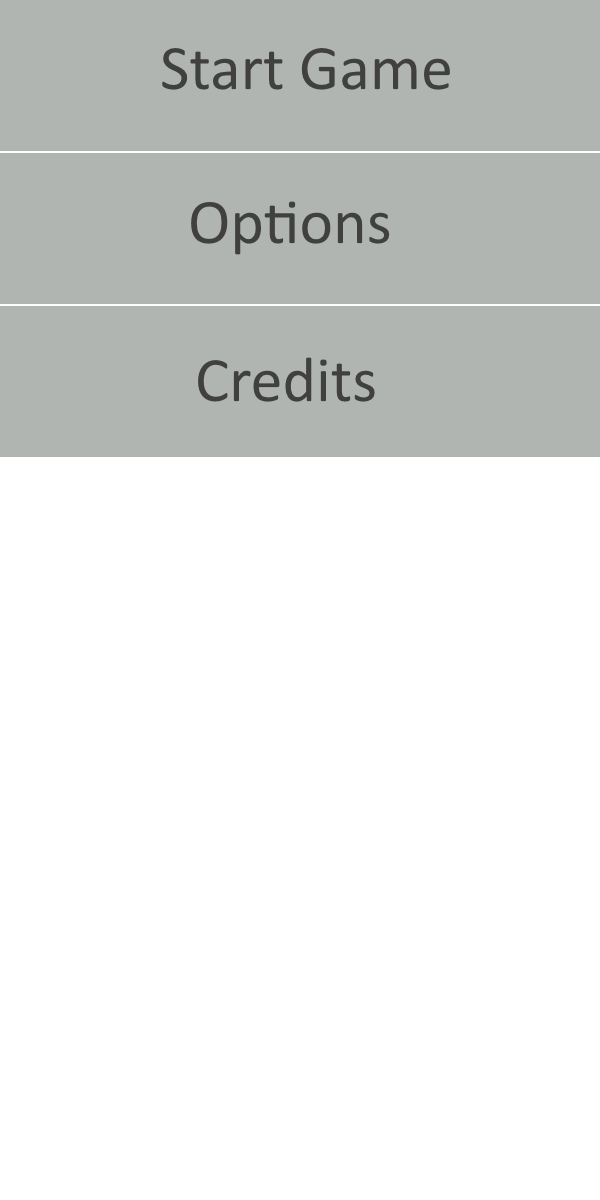
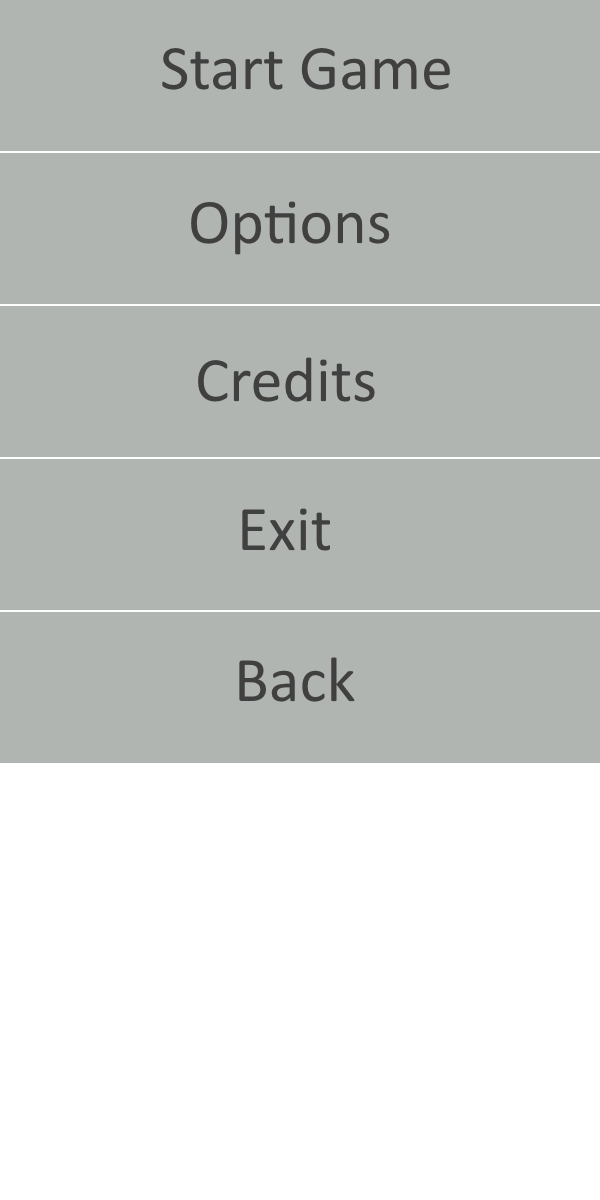
Added some menu stuff

Changed region(s): [[0.0, 0.37, 1.0, 0.6475]]

diff --git a/Assets/Code/menuScript.cs b/Assets/Code/menuScript.cs
@@ -1,0 +1,52 @@
+using UnityEngine;
+using System.Collections;
+
+public class menuScript : MonoBehaviour {
+
+	public string itemName;
+
+	// Use this for initialization
+	void Start () 
+	{
+
+	}
+	
+	// Update is called once per frame
+	void Update () 
+	{
+
+	}
+
+	void OnMouseDown()
+	{
+		if ( itemName == "Start Game" )
+		{
+			Debug.Log("Start Game");
+			Application.LoadLevel("dansTest");
+		}
+		
+		else if ( itemName == "Options" )
+		{
+			Debug.Log("Options Menu");
+			Application.LoadLevel("OptionsMenu");
+		}
+		
+		else if ( itemName == "Credits" )
+		{
+			Debug.Log("Credits");
+			Application.LoadLevel("CreditsMenu");
+		}	
+		
+		else if ( itemName == "Exit" )
+		{
+			Debug.Log("Exit");
+			Application.Quit();
+		}
+		
+		else if ( itemName == "Back" )
+		{
+			Debug.Log("Back");
+			Application.LoadLevel("MainMenu");
+		}
+	}
+}

diff --git a/Assets/Code/menuItemOutline.cs b/Assets/Code/menuItemOutline.cs
@@ -1,0 +1,25 @@
+using UnityEngine;
+using System.Collections;
+
+public class menuItemOutline : MonoBehaviour {
+
+	public GameObject outline;
+
+	// Use this for initialization
+	void Start () 
+	{
+		outline.renderer.enabled = false;
+	}
+	
+	// Update is called once per frame
+	void Update () 
+	{
+		
+	}
+
+	void OnMouseEnter()
+	{
+		Debug.Log("Test");
+		outline.renderer.enabled = true;
+	}
+}
